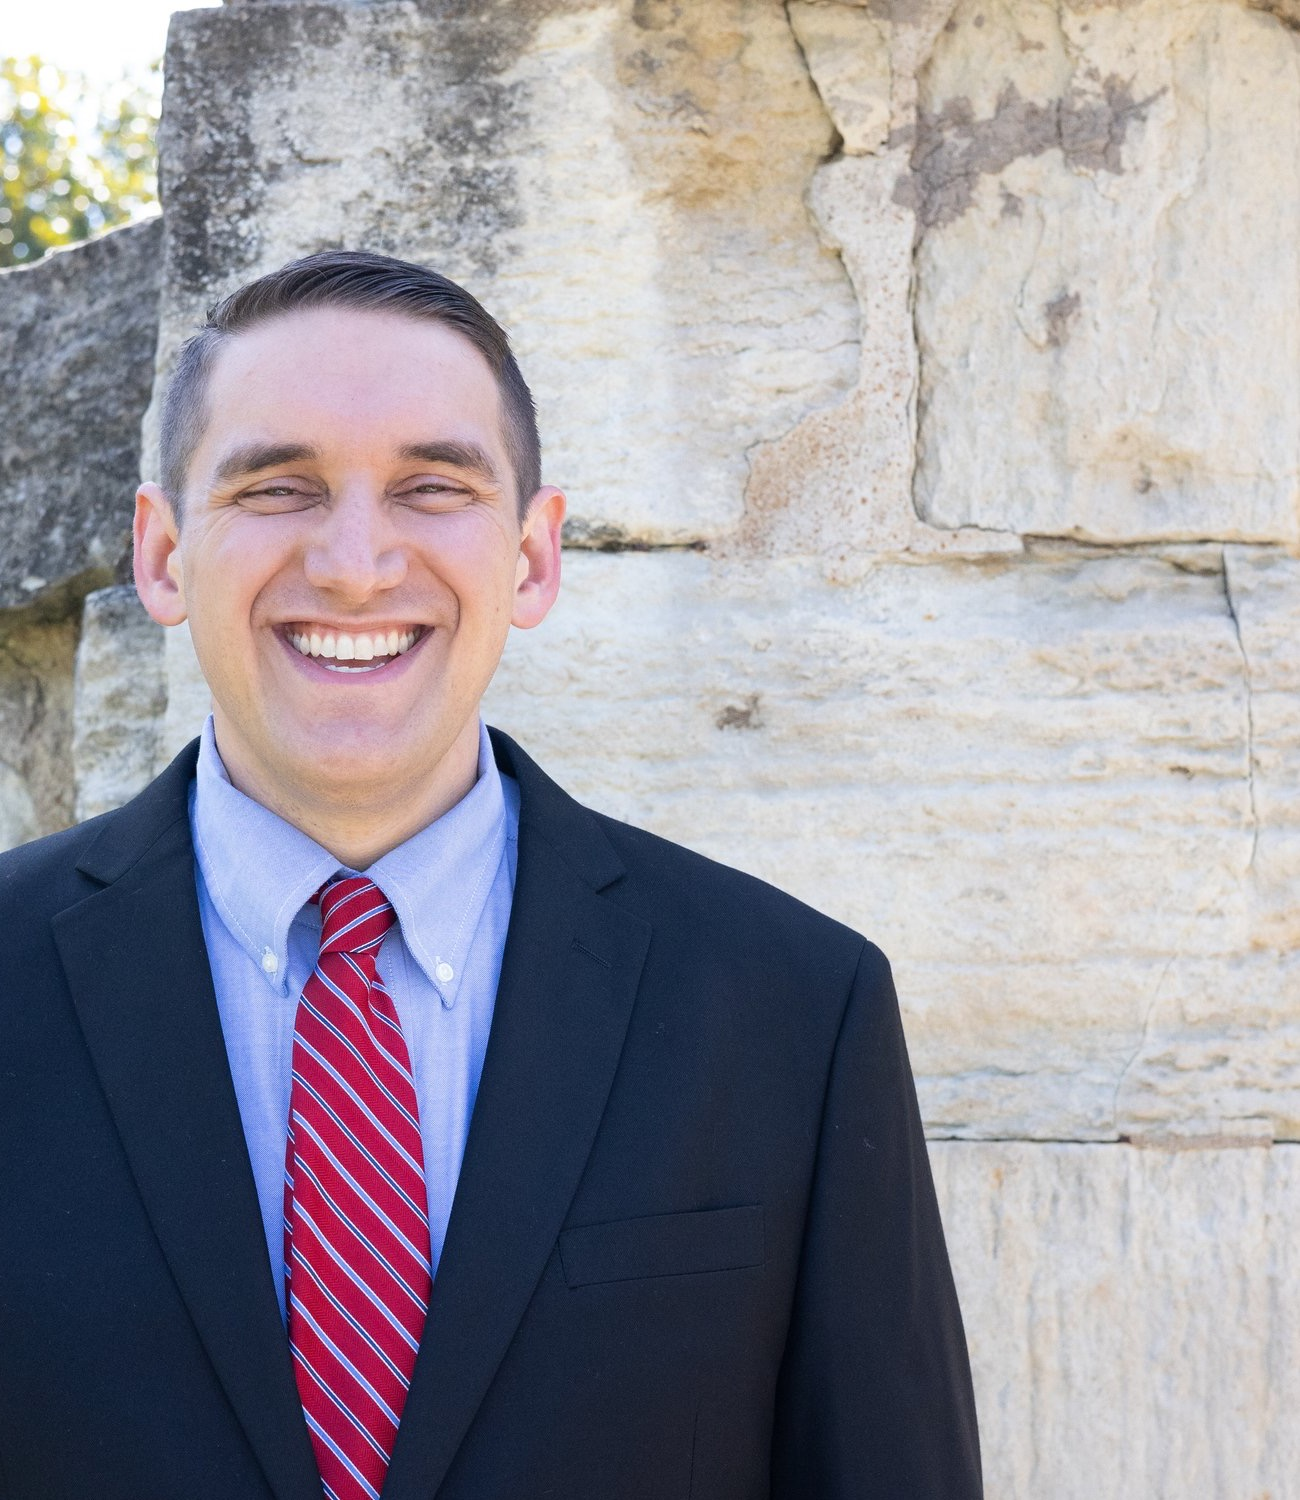
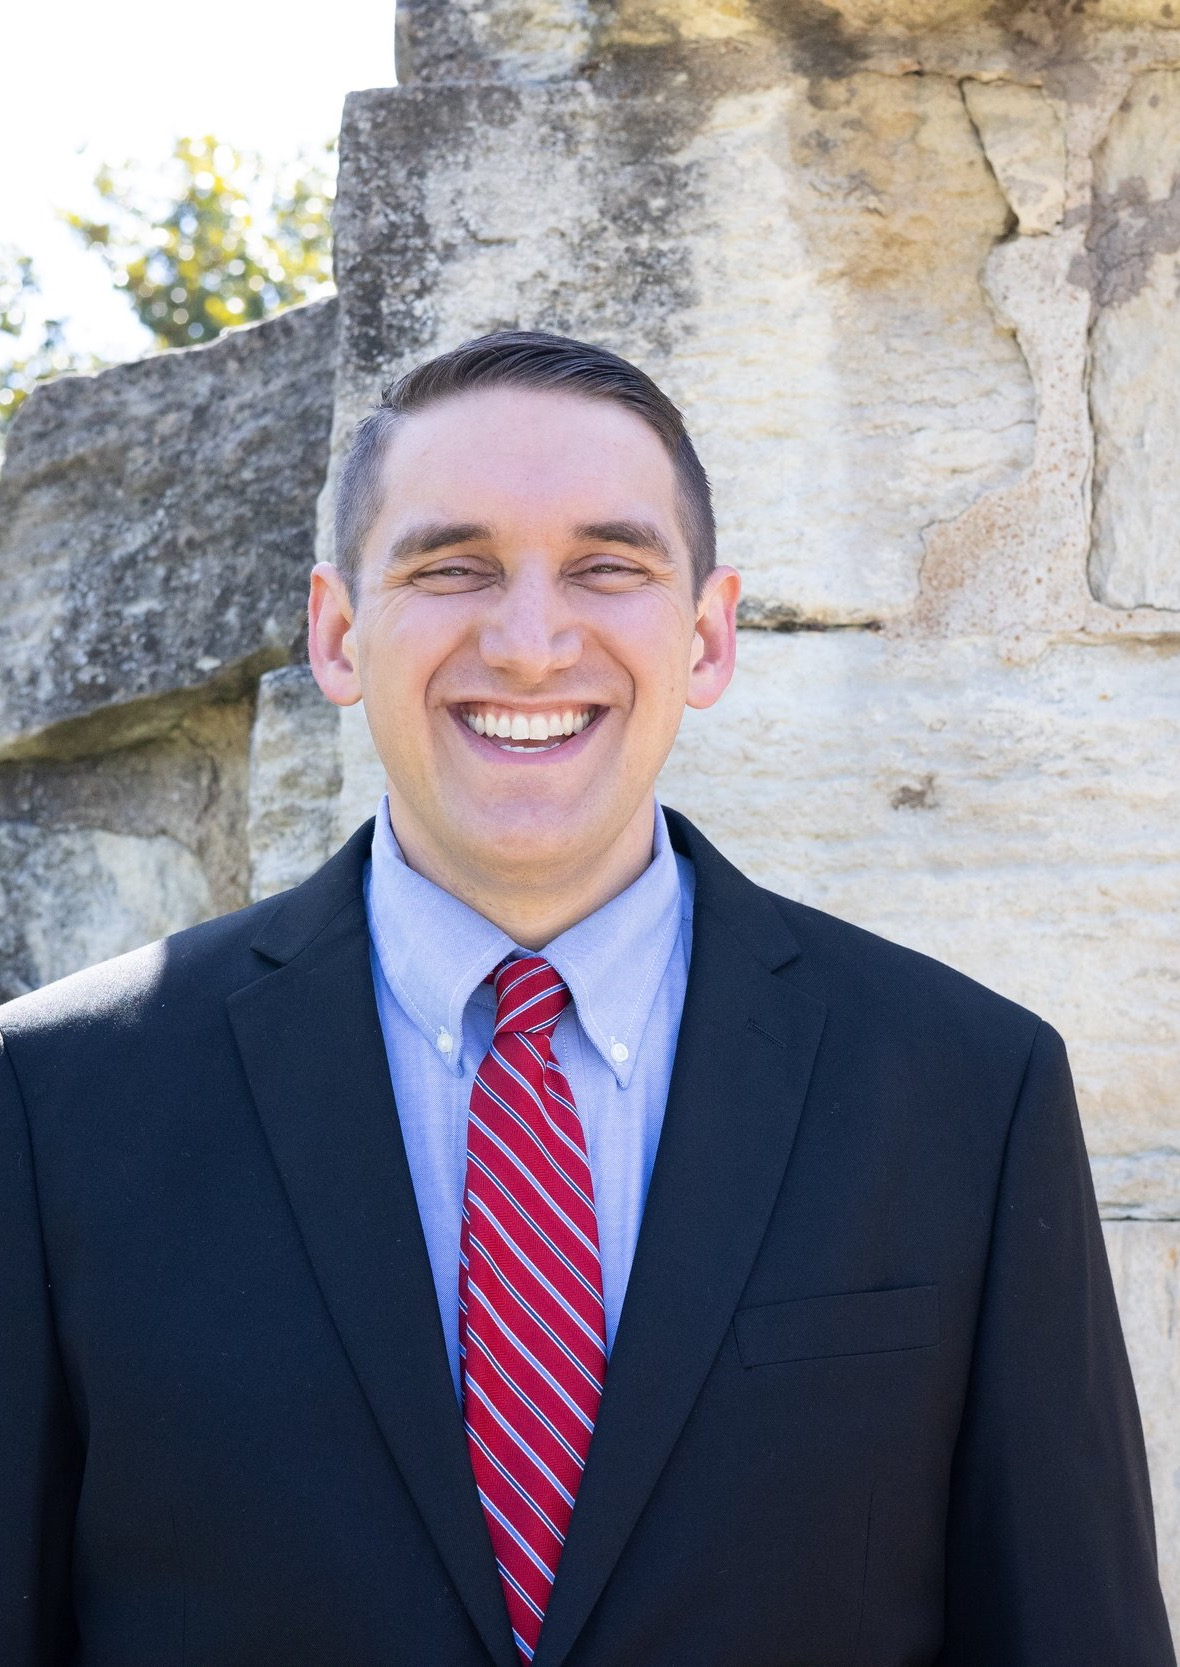
Re-crop hero portrait so Anthony is truly centered in the arch
The previous crop and the arch frame had near-identical aspect ratios,
leaving almost no horizontal play for object-position — so he stayed in
the left third. Re-crop the source centered on his torso and reset
object-position to 50% horizontally.

diff --git a/index.html b/index.html
@@ -125,7 +125,7 @@ header.scrolled .burger span{background:var(--cream)}
   box-shadow:var(--shadow);border:1px solid rgba(27,45,36,.1);
   background:var(--green-800);
 }
-.portrait img{width:100%;height:100%;object-fit:cover;object-position:13% 16%;filter:grayscale(.55) contrast(1.02);transition:filter 1s cubic-bezier(.2,.8,.2,1)}
+.portrait img{width:100%;height:100%;object-fit:cover;object-position:50% 14%;filter:grayscale(.55) contrast(1.02);transition:filter 1s cubic-bezier(.2,.8,.2,1)}
 .portrait:hover img{filter:grayscale(0)}
 .portrait::after{content:"";position:absolute;inset:0;background:linear-gradient(180deg,rgba(27,45,36,0) 55%,rgba(20,33,26,.32));pointer-events:none}
 .portrait-frame{